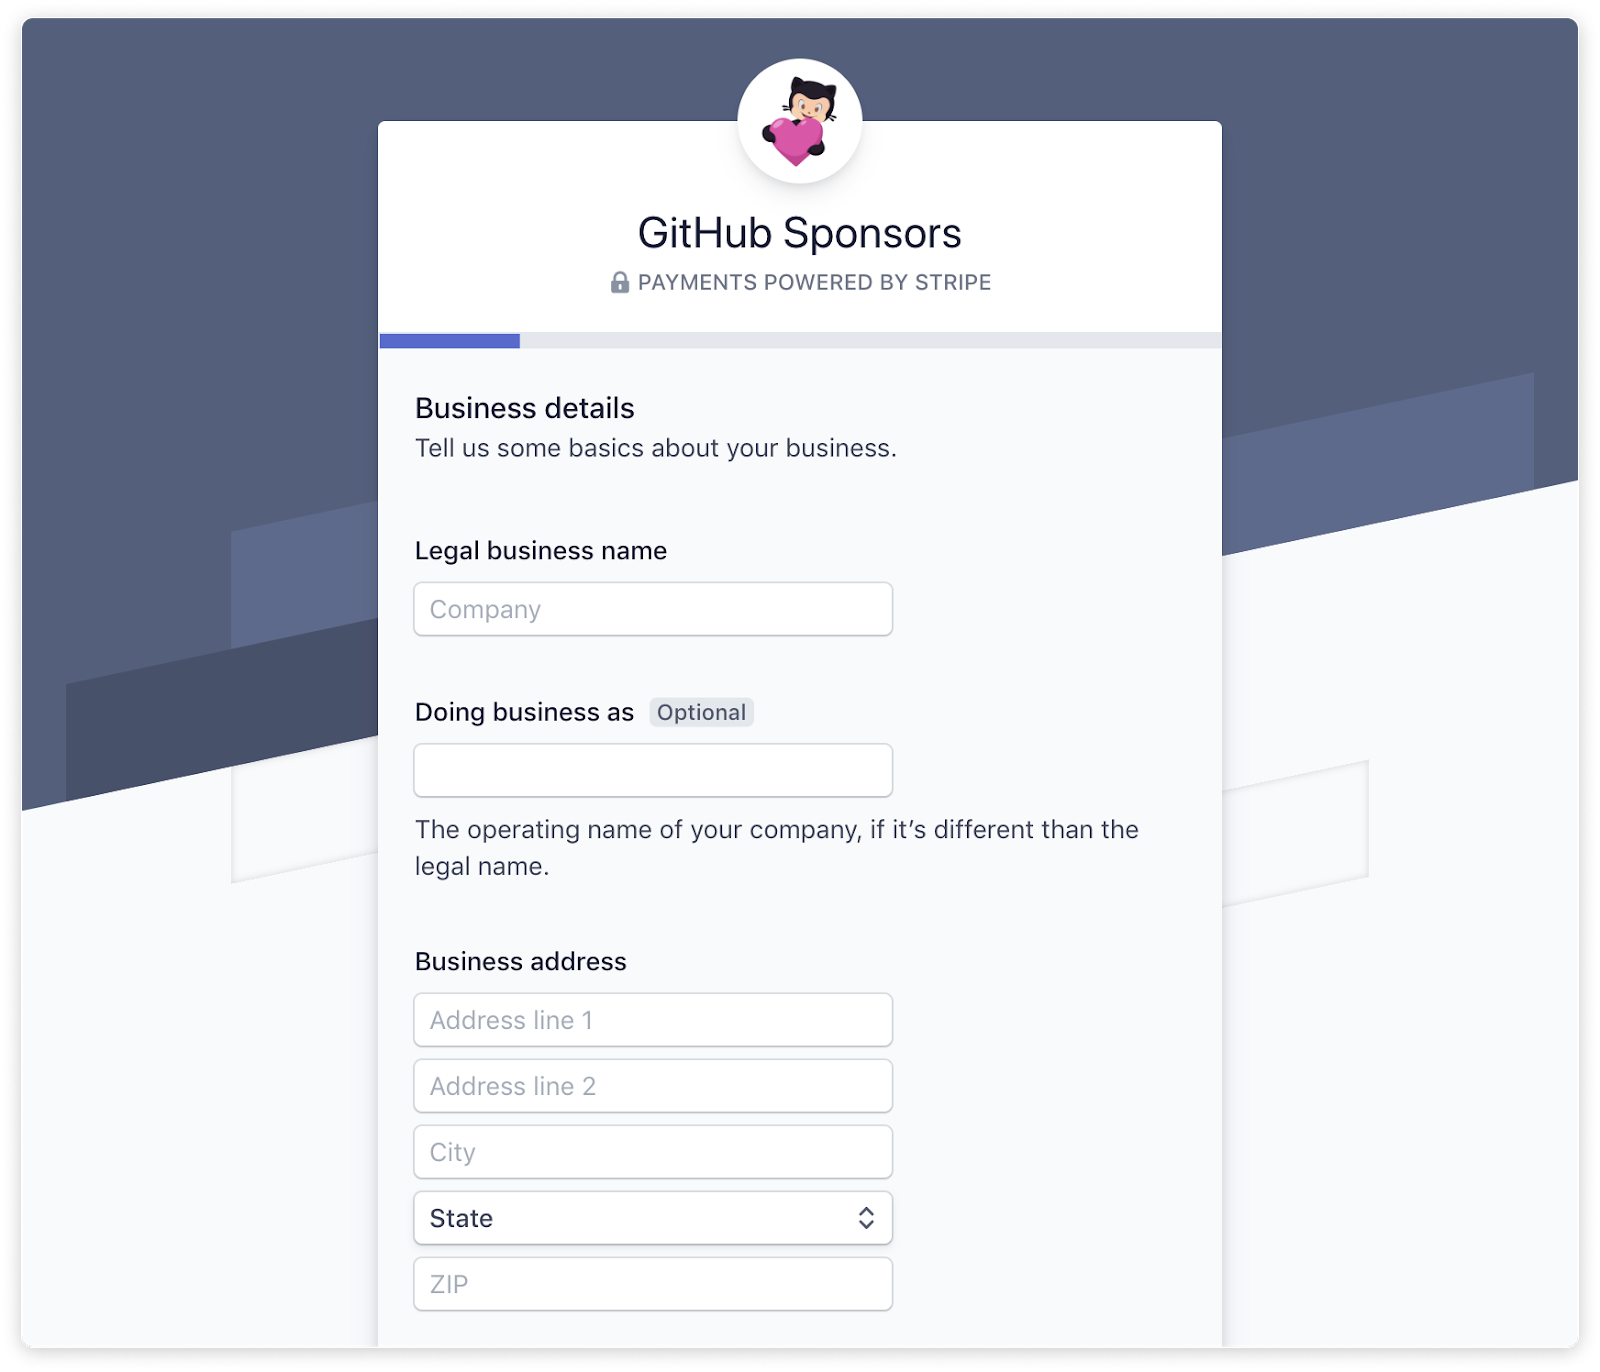
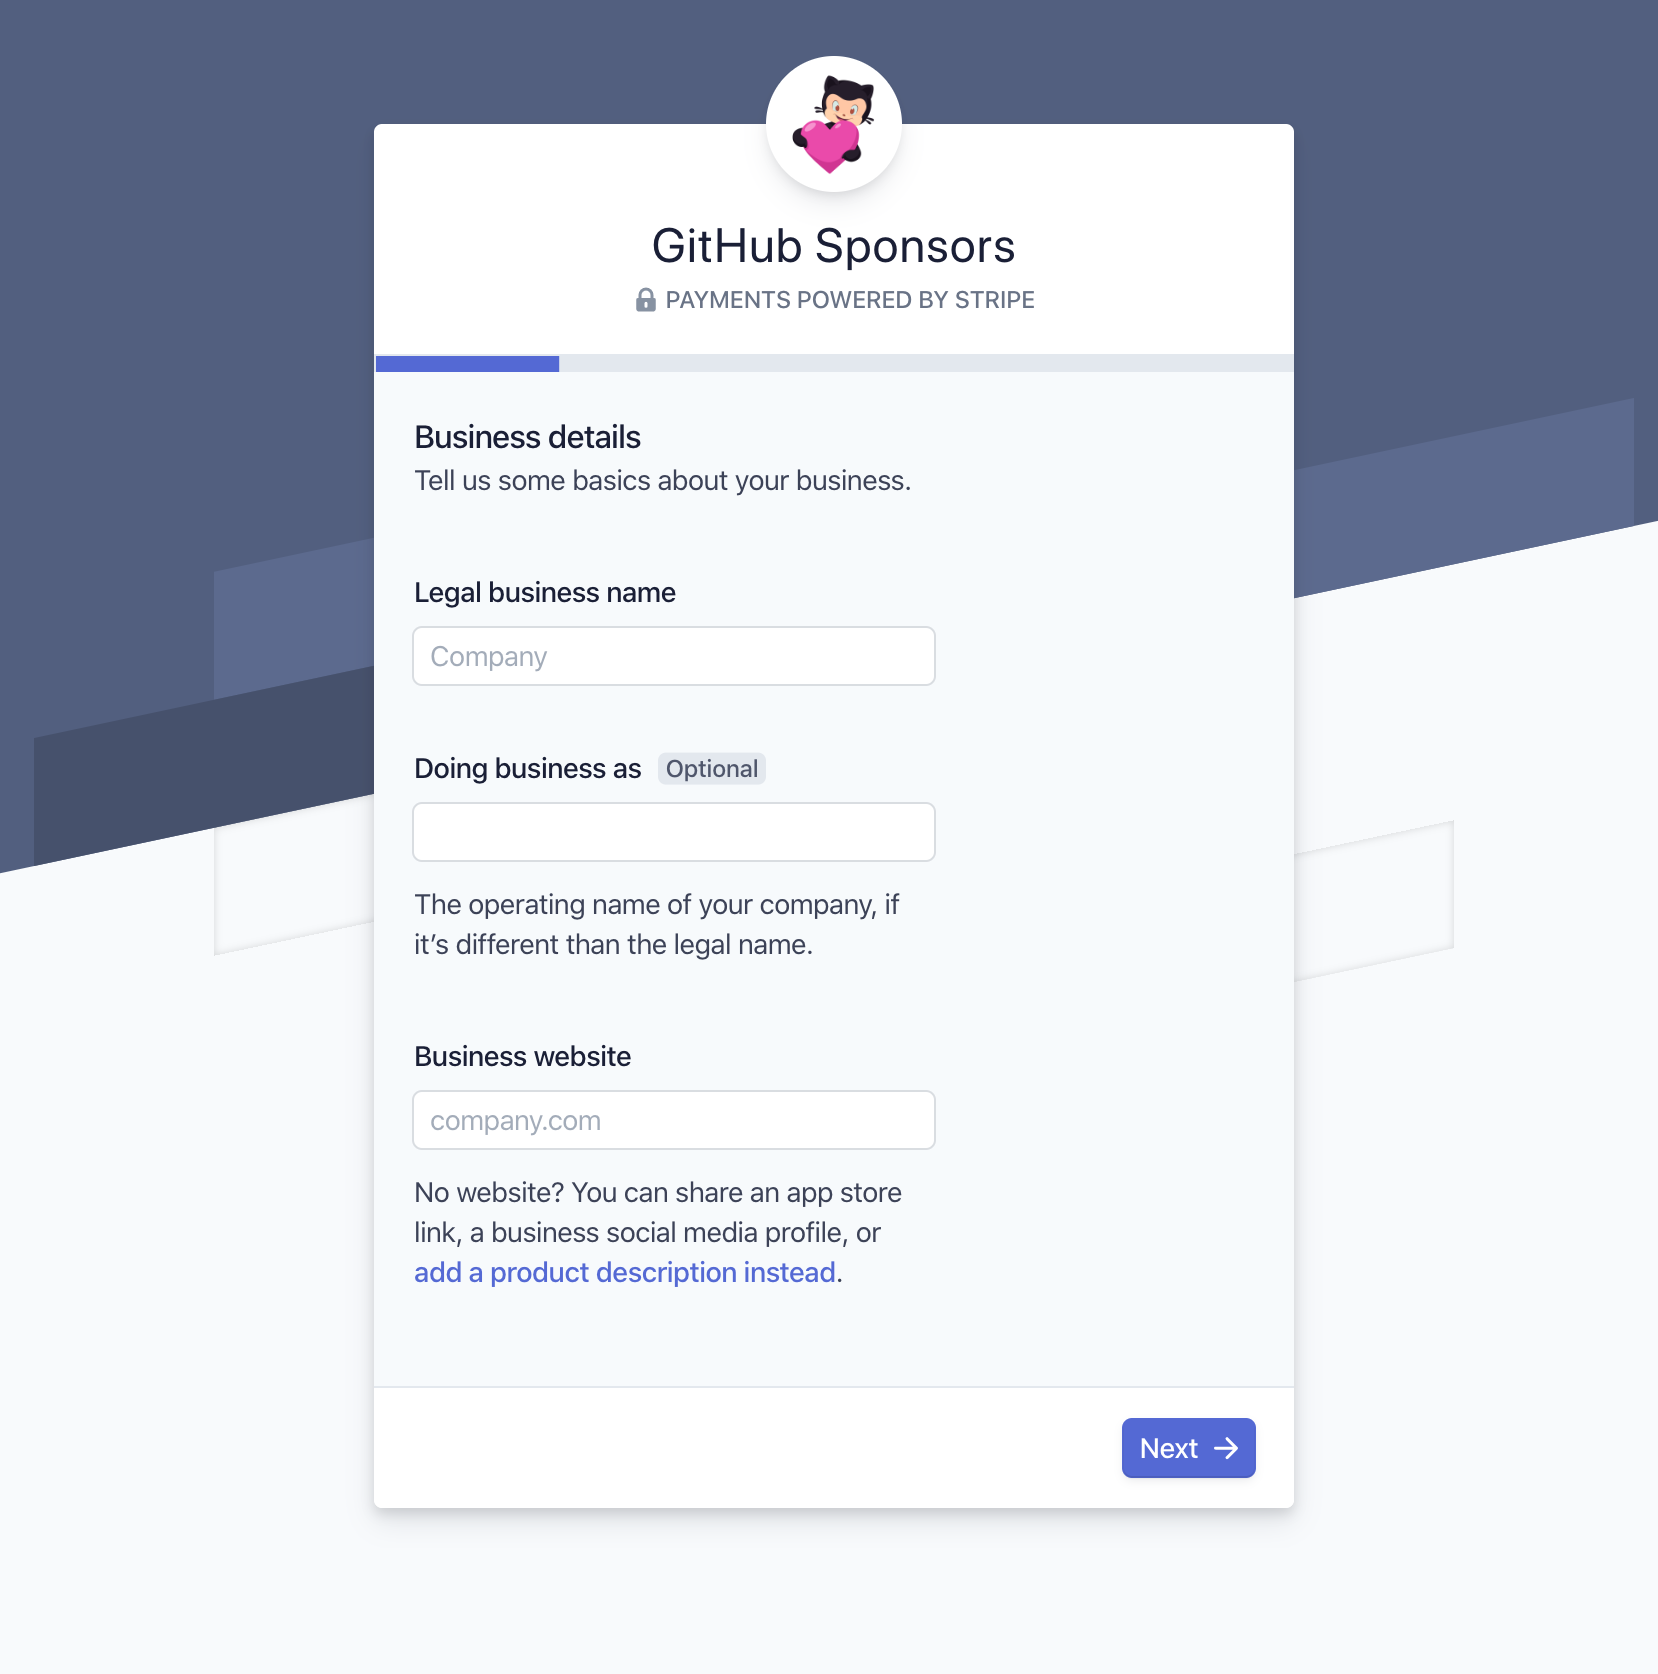
Update the Stripe Connect flow for GitHub Sponsors

Changed region(s): [[0.0, 0.0, 1.0, 0.7959], [0.25, 0.8265, 0.7812, 0.9184], [0.0312, 0.9796, 0.9688, 1.0]]

diff --git a/collectives/github-sponsored-organizations.md b/collectives/github-sponsored-organizations.md
@@ -32,36 +32,15 @@ This next section is asking questions about the business. As a Collective fiscal
 
 * Legal business name: `Open Source Collective`
 * Doing business as: `Name of your collective`
-* Business address:
-
-  ```text
-  340 S LEMON AVE #3717, Walnut CA 91789 USA
-  EIN: 82-2037583
-  ```
-
-* Business phone number: `+1 (631) 485-1411`
 * Business website: `https://opencollective.com/your_collective_slug`
-* Industry: `Software`
 
 ![](../.gitbook/assets/github_stripe_3.png)
-
-![](../.gitbook/assets/github_stripe_4.png)
 
 ### Executive details \(about you\)
 
 Next, you will be filling out details as the acting executive for the Collective. Use your personal information on this page.
 
-* For the last checkbox about whether you own 25% or more of the company, leave it unchecked.
-
-![](../.gitbook/assets/github_stripe_5.png)
-
-![](../.gitbook/assets/github_stripe_6.png)
-
-### Business ownership
-
-Next, you will see a prompt about ownership. Select **No**.
-
-![](../.gitbook/assets/github_stripe_7.png)
+![](../.gitbook/assets/github_stripe_4.png)
 
 ### Payout details
 
@@ -70,7 +49,7 @@ Finally, you will input bank account information. Funds you receive through GitH
 * Routing number: `123205054`
 * Account Number: `4864122233`
 
-![](../.gitbook/assets/github_stripe_8.png)
+![](../.gitbook/assets/github_stripe_5.png)
 
 After that, you should be all set! ✌😎
 
@@ -79,4 +58,3 @@ After that, you should be all set! ✌😎
 ### What fees will be charged?
 
 The standard Open Collective and Open Source Collective fees apply to funds raised via GitHub Sponsors: 10% total. There are also payment processing fees from Stripe. GitHub does not charge a fee.
-
